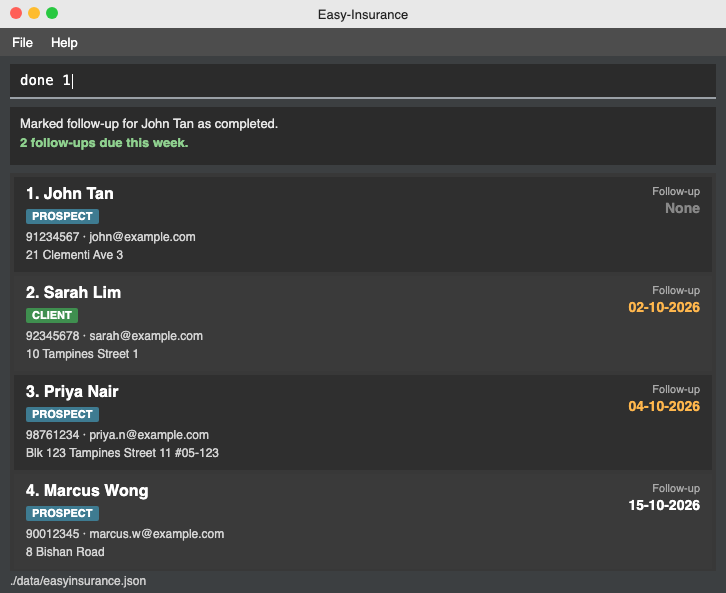
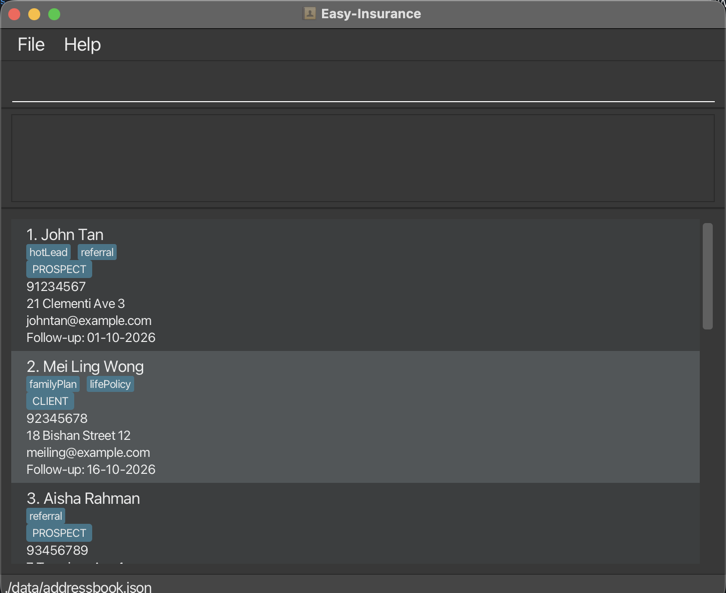
Prepare the v1.3 release
Bump the version to V1.3, replace the last AddressBook wording in the
startup log messages, point the DevOps guide at this repository, and
replace the UI mock-up with a screenshot of the released app.

diff --git a/src/main/java/seedu/address/MainApp.java b/src/main/java/seedu/address/MainApp.java
@@ -32,7 +32,7 @@ import seedu.address.ui.UiManager;
  */
 public class MainApp extends Application {
 
-    public static final String VERSION = "V0.5.1";
+    public static final String VERSION = "V1.3";
 
     private static final Logger logger = LogsCenter.getLogger(MainApp.class);
     private static final Path USER_PREFS_FILE_PATH = Paths.get("preferences.json");
@@ -74,12 +74,12 @@ public class MainApp extends Application {
             addressBookOptional = storage.readAddressBook();
             if (addressBookOptional.isEmpty()) {
                 logger.info("Creating a new data file " + storage.getAddressBookFilePath()
-                        + " populated with a sample AddressBook.");
+                        + " populated with sample Easy-Insurance contacts.");
             }
             initialData = addressBookOptional.orElseGet(SampleDataUtil::getSampleAddressBook);
         } catch (DataLoadingException e) {
             logger.warning("Data file at " + storage.getAddressBookFilePath() + " could not be loaded."
-                    + " Will be starting with an empty AddressBook.");
+                    + " Will be starting with an empty Easy-Insurance contact list.");
             initialData = new AddressBook();
         }
 

diff --git a/docs/DevOps.md b/docs/DevOps.md
@@ -76,7 +76,7 @@ Any warnings or errors will be printed out to the console.
 
 Here are the steps to create a new release.
 
-1. Update the version number in [`MainApp.java`](https://github.com/se-edu/addressbook-level3/tree/master/src/main/java/seedu/address/MainApp.java).
+1. Update the version number in [`MainApp.java`](https://github.com/AY2627S1-CS2103T-T09-2/tp/tree/master/src/main/java/seedu/address/MainApp.java).
 1. Generate a fat JAR file using Gradle (i.e., `./gradlew shadowJar`).
 1. Tag the repo with the version number. e.g. `v0.1`
 1. [Create a new release using GitHub](https://help.github.com/articles/creating-releases/). Upload the JAR file you created.
